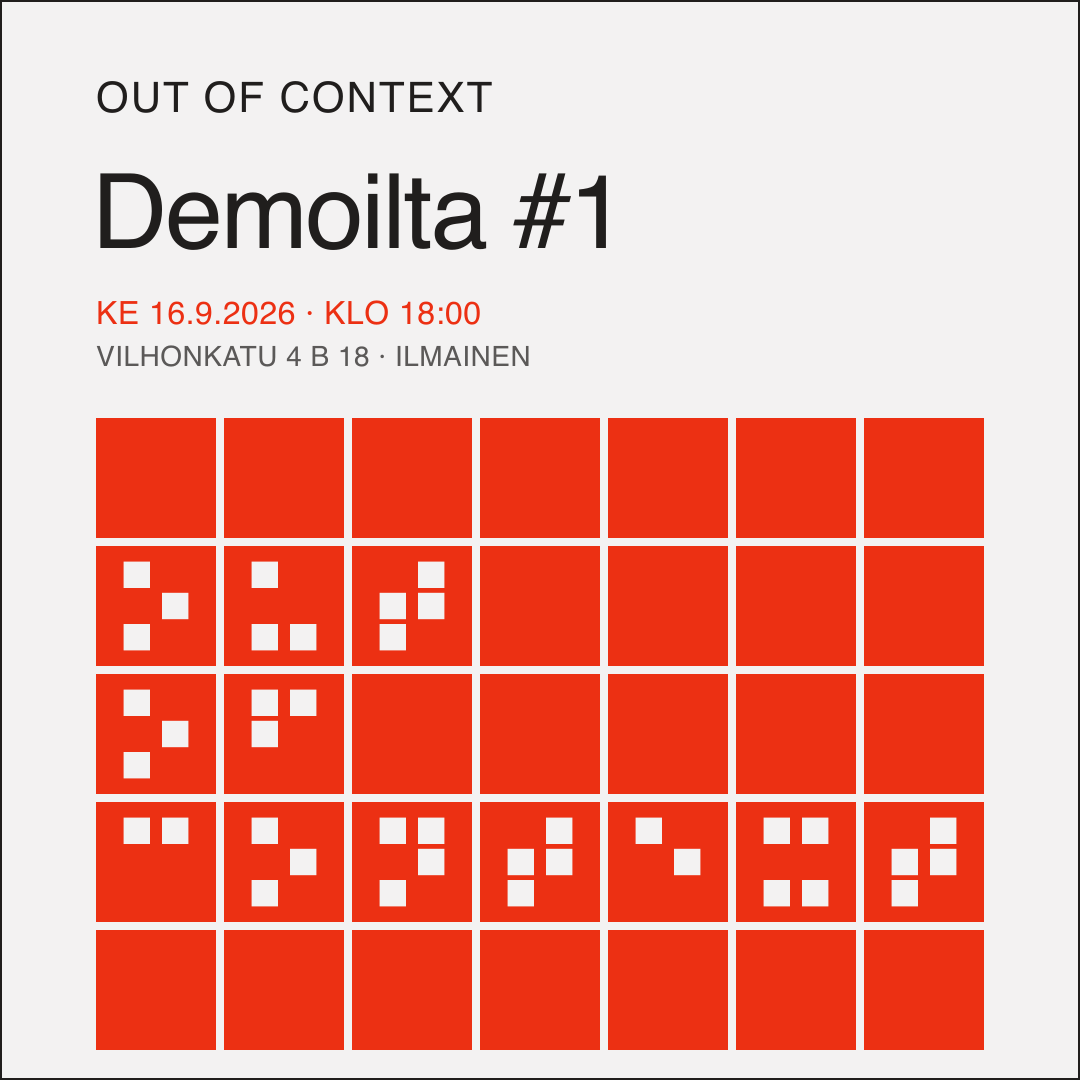
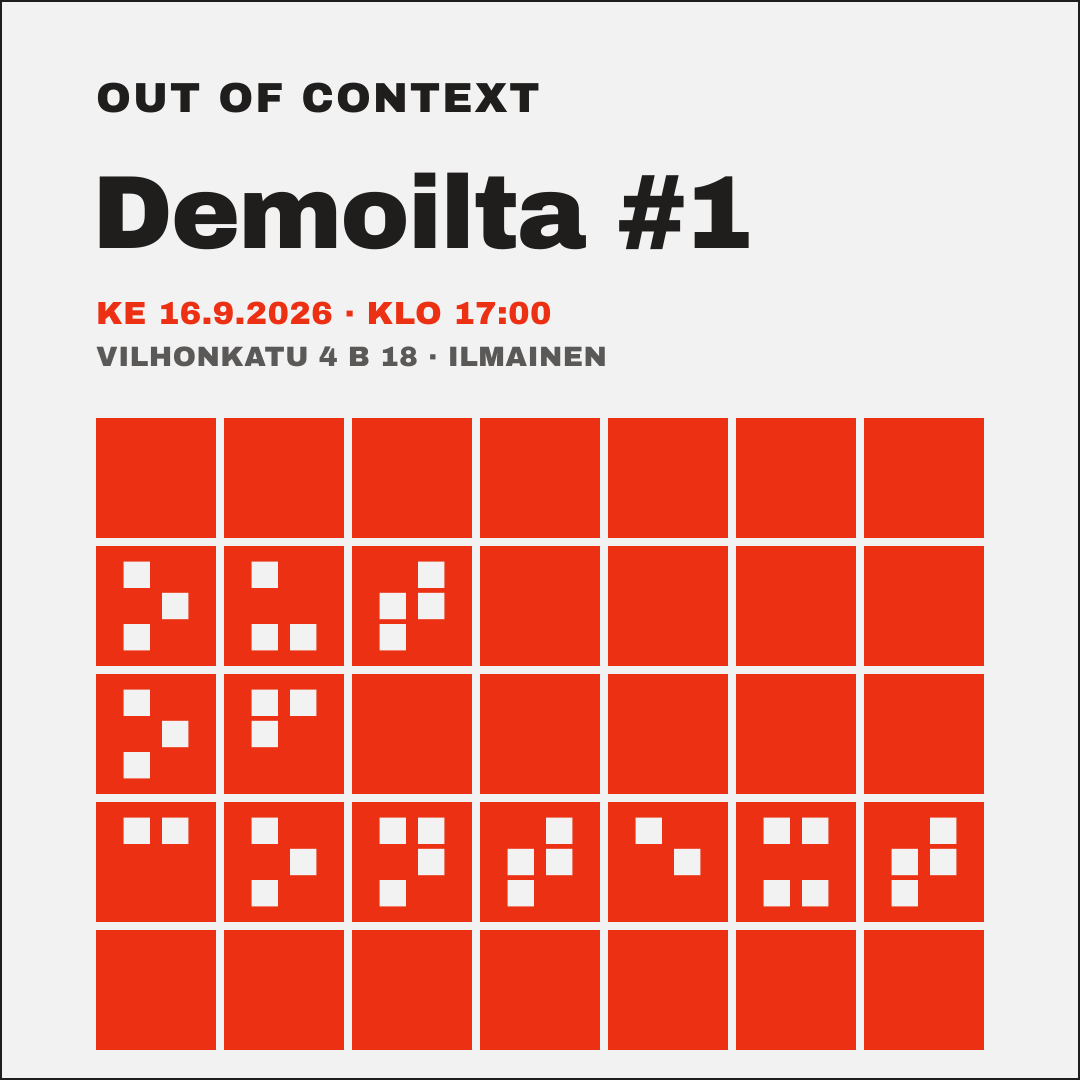
fix: correct demo night start time

Changed region(s): [[0.0917, 0.1528, 0.7028, 0.2444], [0.0917, 0.275, 0.5806, 0.3361], [0.0917, 0.0611, 0.4889, 0.1222]]

diff --git a/templates/index.html b/templates/index.html
@@ -311,7 +311,7 @@ a:hover { color: var(--color-accent); }
   <div id="lang-fi">
     <section style="display:grid; grid-template-columns:1.35fr 1fr; gap:48px; padding:56px 0 44px; border-bottom:2px solid var(--color-divider)">
       <div>
-        <div style="font-family:var(--font-heading); font-weight:700; font-size:13px; letter-spacing:0.1em; text-transform:uppercase; color:var(--color-accent-700); margin-bottom:28px">Helsinki · ke 16.9.2026 · klo 18:00 · ilmainen</div>
+        <div style="font-family:var(--font-heading); font-weight:700; font-size:13px; letter-spacing:0.1em; text-transform:uppercase; color:var(--color-accent-700); margin-bottom:28px">Helsinki · ke 16.9.2026 · klo 17:00 · ilmainen</div>
         <h1 style="font-size:clamp(38px,6.2vw,78px); line-height:0.98; letter-spacing:-0.03em; margin:0 0 24px; text-wrap:balance">Demoilta #1</h1>
         <p style="font-size:20px; line-height:1.4; max-width:30ch; margin:0 0 36px">Ilta sinulle joka luot AI:lla.</p>
         <div style="display:grid; grid-template-columns:1fr 1fr; gap:12px; max-width:520px">
@@ -378,7 +378,7 @@ a:hover { color: var(--color-accent); }
       </div>
       <div style="border:2px solid var(--color-divider); padding:24px; display:flex; flex-direction:column; gap:14px; align-items:flex-start">
         <div style="font-family:var(--font-heading); font-weight:700; font-size:11px; letter-spacing:0.1em; text-transform:uppercase">Lu.ma</div>
-        <div style="font-size:16px">Out of Context demoilta #1 · ke 16.9.2026 klo 18:00 · Vilhonkatu 4 B 18, Helsinki</div>
+        <div style="font-size:16px">Out of Context demoilta #1 · ke 16.9.2026 klo 17:00 · Vilhonkatu 4 B 18, Helsinki</div>
         <a href="https://luma.com/8ankyx8u" class="btn btn-primary" style="justify-content:flex-start; font-size:16px; padding:16px 20px; width:100%; box-sizing:border-box">Ilmoittaudu Lu.massa</a>
         <div class="text-muted" style="font-size:13px">Vilhonkatu 4 B 18, 4. krs, 00100 Helsinki. Kysyttävää? <a href="mailto:hei@out-of-context.dev?subject=Haluan%20demota">hei@out-of-context.dev</a></div>
       </div>
@@ -388,7 +388,7 @@ a:hover { color: var(--color-accent); }
   <div id="lang-en" hidden>
     <section style="display:grid; grid-template-columns:1.35fr 1fr; gap:48px; padding:56px 0 44px; border-bottom:2px solid var(--color-divider)">
       <div>
-        <div style="font-family:var(--font-heading); font-weight:700; font-size:13px; letter-spacing:0.1em; text-transform:uppercase; color:var(--color-accent-700); margin-bottom:28px">Helsinki · Wed 16 Sep 2026 · 18:00 · free</div>
+        <div style="font-family:var(--font-heading); font-weight:700; font-size:13px; letter-spacing:0.1em; text-transform:uppercase; color:var(--color-accent-700); margin-bottom:28px">Helsinki · Wed 16 Sep 2026 · 17:00 · free</div>
         <h1 style="font-size:clamp(38px,6.2vw,78px); line-height:0.98; letter-spacing:-0.03em; margin:0 0 24px; text-wrap:balance">Demo night #1</h1>
         <p style="font-size:20px; line-height:1.4; max-width:30ch; margin:0 0 36px">An evening for people who build with AI.</p>
         <div style="display:grid; grid-template-columns:1fr 1fr; gap:12px; max-width:520px">
@@ -455,7 +455,7 @@ a:hover { color: var(--color-accent); }
       </div>
       <div style="border:2px solid var(--color-divider); padding:24px; display:flex; flex-direction:column; gap:14px; align-items:flex-start">
         <div style="font-family:var(--font-heading); font-weight:700; font-size:11px; letter-spacing:0.1em; text-transform:uppercase">Lu.ma</div>
-        <div style="font-size:16px">Out of Context demo night #1 · Wed 16 Sep 2026, 18:00 · Vilhonkatu 4 B 18, Helsinki</div>
+        <div style="font-size:16px">Out of Context demo night #1 · Wed 16 Sep 2026, 17:00 · Vilhonkatu 4 B 18, Helsinki</div>
         <a href="https://luma.com/8ankyx8u" class="btn btn-primary" style="justify-content:flex-start; font-size:16px; padding:16px 20px; width:100%; box-sizing:border-box">Register on Lu.ma</a>
         <div class="text-muted" style="font-size:13px">Vilhonkatu 4 B 18, 4th floor, 00100 Helsinki. Questions? <a href="mailto:hei@out-of-context.dev?subject=Haluan%20demota">hei@out-of-context.dev</a></div>
       </div>

diff --git a/tools/og-image/luma_cover.py b/tools/og-image/luma_cover.py
@@ -29,7 +29,7 @@ p.append(f'<rect width="{W}" height="{H}" fill="{BG}"/>')
 p.append(f'<rect x="1" y="1" width="{W-2}" height="{H-2}" fill="none" stroke="{INK}" stroke-width="2"/>')
 p.append(f'<text x="{LX}" y="112" font-family="{FF}" font-size="42" letter-spacing="2" fill="{INK}">OUT OF CONTEXT</text>')
 p.append(f'<text x="{LX-4}" y="248" font-family="{FF}" font-size="104" letter-spacing="-2" fill="{INK}">Demoilta #1</text>')
-p.append(f'<text x="{LX}" y="324" font-family="{FF}" font-size="32" letter-spacing="0.5" fill="{RED}">KE 16.9.2026 &#183; KLO 18:00</text>')
+p.append(f'<text x="{LX}" y="324" font-family="{FF}" font-size="32" letter-spacing="0.5" fill="{RED}">KE 16.9.2026 &#183; KLO 17:00</text>')
 p.append(f'<text x="{LX}" y="366" font-family="{FF}" font-size="28" letter-spacing="0.5" fill="{INK}" opacity="0.72">VILHONKATU 4 B 18 &#183; ILMAINEN</text>')
 
 # braille as big red favicon tiles, full content width

diff --git a/tools/og-image/generate.py b/tools/og-image/generate.py
@@ -43,7 +43,7 @@ parts.append(f'<rect x="1" y="1" width="{W-2}" height="{H-2}" fill="none" stroke
 LX = 72
 parts.append(f'<text x="{LX}" y="132" font-family="{FF}" font-size="56" letter-spacing="1" fill="{INK}">OUT OF CONTEXT</text>')
 parts.append(f'<text x="{LX-4}" y="378" font-family="{FF}" font-size="112" letter-spacing="-3" fill="{INK}">Demoilta #1</text>')
-parts.append(f'<text x="{LX}" y="512" font-family="{FF}" font-size="34" letter-spacing="0.5" fill="{RED}">KE 16.9.2026 &#183; KLO 18:00</text>')
+parts.append(f'<text x="{LX}" y="512" font-family="{FF}" font-size="34" letter-spacing="0.5" fill="{RED}">KE 16.9.2026 &#183; KLO 17:00</text>')
 parts.append(f'<text x="{LX}" y="558" font-family="{FF}" font-size="30" letter-spacing="0.5" fill="{INK}" opacity="0.72">VILHONKATU 4 B 18 &#183; ILMAINEN</text>')
 
 # ---- right: braille "OUT OF CONTEXT" as big favicon tiles (no orange panel) ----
